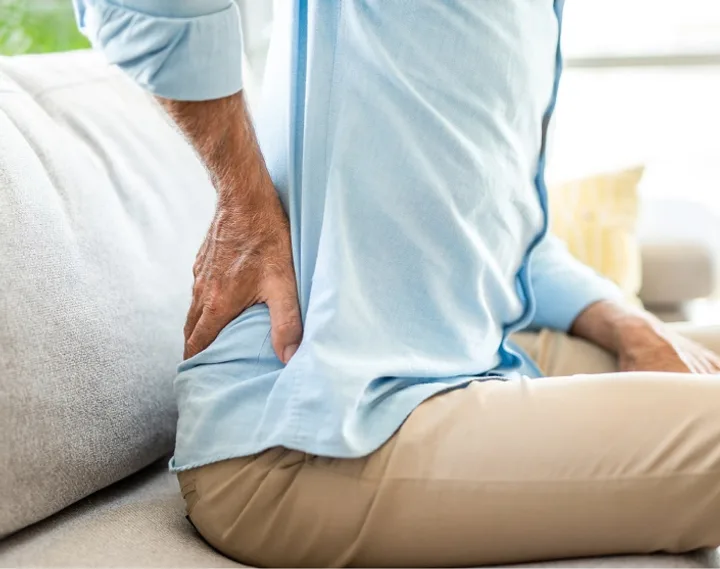
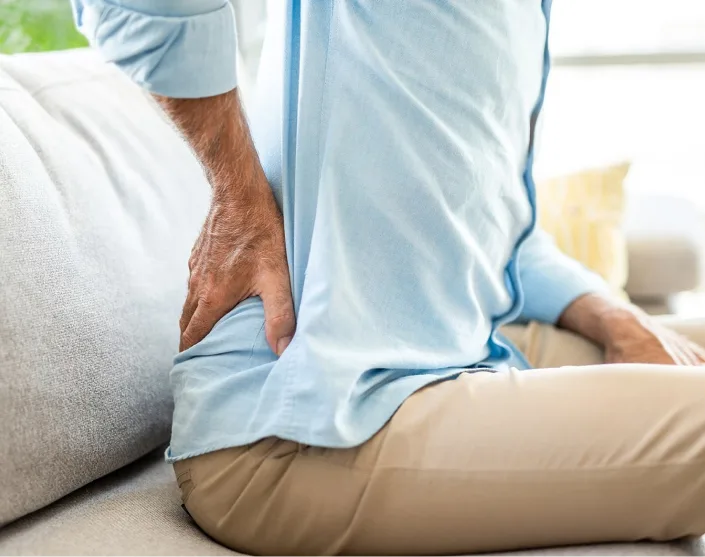
perf/seo: otimizações inspiradas no projeto dra-tatiana
Performance (impacta diretamente Core Web Vitals, sinal de ranking
do Google, especialmente em mobile):

- Converte todas as fotos (hero, perfis, blocos de condição, logo
  parceira, backgrounds) para WebP via sharp, mantendo o arquivo
  original como fallback em <picture>/image-set(): ~11,5MB -> ~975KB
  de imagens (~91% menor)
- Fundo do hero e do bloco de FAQ agora servem WebP via
  background-image: image-set() com fallback jpg
- Mapa do Google (iframe pesado) deixa de carregar automaticamente:
  nova fachada clicável ("Ver no mapa") que só cria o iframe quando
  o usuário rola até a seção (IntersectionObserver) ou clica —
  mesmo padrão usado no projeto da Dra. Tatiana

SEO:

- Adiciona <link rel="canonical"> e <meta property="og:url"> em
  ambas as páginas, agora que o site tem uma URL pública estável
  (github.io) — anteriormente omitidos por não haver domínio
  definido ainda

Testado via Chrome DevTools Protocol: currentSrc do hero confirma
que o navegador carrega o .webp; mapa cria o iframe corretamente ao
entrar na viewport; sem erros de console; sem requisições 4xx/5xx.

diff --git a/osteopatia/index.html b/osteopatia/index.html
@@ -5,9 +5,11 @@
   <meta name="viewport" content="width=device-width, initial-scale=1.0">
   <title>Fisioterapeuta Especialista em Osteopatia Pediátrica em Guarantã do Norte - MT</title>
   <meta name="description" content="Fisioterapeuta especialista em osteopatia pediátrica em Guarantã do Norte - MT. Cuidado gentil, seguro e individualizado para aliviar os desconfortos do seu bebê e apoiar cada fase do desenvolvimento.">
+  <link rel="canonical" href="https://osamuelpadua.github.io/dr-hidelvani/osteopatia/">
   <meta name="robots" content="index,follow">
   <meta property="og:locale" content="pt_BR">
   <meta property="og:type" content="website">
+  <meta property="og:url" content="https://osamuelpadua.github.io/dr-hidelvani/osteopatia/">
   <meta property="og:site_name" content="Dr. Hidelvani">
   <meta property="og:title" content="Dr. Hidelvani Nunes - Fisioterapeuta Especialista em Osteopatia Pediátrica">
   <meta property="og:description" content="Fisioterapeuta especialista em osteopatia pediátrica em Guarantã do Norte - MT. Cuidado gentil, seguro e individualizado para o desenvolvimento do seu bebê.">
@@ -133,7 +135,10 @@
             <img src="../stamp-txt-page2.svg" class="stamp-txt" alt="">
             <img src="../stamp-iso.svg" class="stamp-iso" alt="">
           </div>
-          <img src="../dr-hidelvani.png" class="doctor-img" alt="Dr. Hidelvani Nunes" loading="eager">
+          <picture>
+            <source srcset="../dr-hidelvani.webp" type="image/webp">
+            <img src="../dr-hidelvani.png" class="doctor-img" alt="Dr. Hidelvani Nunes" loading="eager">
+          </picture>
         </div>
 
       </div>
@@ -234,7 +239,10 @@
     <div class="condition-inner">
 
       <div class="condition-media">
-        <img src="../torcicolo.png" class="condition-img" alt="Fisioterapeuta avaliando a mobilidade do pescoço de um bebê">
+        <picture>
+          <source srcset="../torcicolo.webp" type="image/webp">
+          <img src="../torcicolo.png" class="condition-img" alt="Fisioterapeuta avaliando a mobilidade do pescoço de um bebê">
+        </picture>
       </div>
 
       <div class="condition-text">
@@ -254,7 +262,10 @@
     <div class="condition-inner">
 
       <div class="condition-media">
-        <img src="../assimetria-craniana.png" class="condition-img" alt="Fisioterapeuta realizando técnica craniana suave em um bebê">
+        <picture>
+          <source srcset="../assimetria-craniana.webp" type="image/webp">
+          <img src="../assimetria-craniana.png" class="condition-img" alt="Fisioterapeuta realizando técnica craniana suave em um bebê">
+        </picture>
       </div>
 
       <div class="condition-text">
@@ -274,7 +285,10 @@
     <div class="condition-inner">
 
       <div class="condition-media">
-        <img src="../colica.png" class="condition-img" alt="Fisioterapeuta realizando massagem abdominal suave em um bebê">
+        <picture>
+          <source srcset="../colica.webp" type="image/webp">
+          <img src="../colica.png" class="condition-img" alt="Fisioterapeuta realizando massagem abdominal suave em um bebê">
+        </picture>
       </div>
 
       <div class="condition-text">
@@ -294,7 +308,10 @@
     <div class="condition-inner">
 
       <div class="condition-media">
-        <img src="../amamentacao.png" class="condition-img" alt="Fisioterapeuta avaliando a mandíbula de um bebê com a mãe presente">
+        <picture>
+          <source srcset="../amamentacao.webp" type="image/webp">
+          <img src="../amamentacao.png" class="condition-img" alt="Fisioterapeuta avaliando a mandíbula de um bebê com a mãe presente">
+        </picture>
       </div>
 
       <div class="condition-text">
@@ -550,7 +567,10 @@
   <section class="profile-block">
     <div class="profile-inner">
       <div class="profile-media">
-        <img src="../profile-page2.jpg" alt="Dr. Hidelvani Nunes" class="profile-image">
+        <picture>
+          <source srcset="../profile-page2.webp" type="image/webp">
+          <img src="../profile-page2.jpg" alt="Dr. Hidelvani Nunes" class="profile-image">
+        </picture>
       </div>
 
       <div class="profile-content">
@@ -742,20 +762,44 @@
         </div>
 
         <div class="contact-brand">
-          <img src="../logo-centralfisio.png" alt="Central Fisio" class="contact-logo contact-logo--partner">
+          <picture>
+            <source srcset="../logo-centralfisio.webp" type="image/webp">
+            <img src="../logo-centralfisio.png" alt="Central Fisio" class="contact-logo contact-logo--partner">
+          </picture>
           <img src="../logo.svg" alt="Dr. Hidelvani Nunes Fisioterapeuta" class="contact-logo contact-logo--own">
         </div>
       </div>
 
-      <div class="contact-map-wrap">
-        <iframe
-          class="contact-map"
-          title="Mapa da Clínica Maranata - Dr. Hidelvani Nunes"
-          loading="lazy"
-          referrerpolicy="no-referrer-when-downgrade"
-          src="https://www.google.com/maps?q=Clinica+Maranata,+R.+Inhare,+1070,+Centro,+Guaranta+do+Norte+-+MT,+78520-000&z=17&output=embed">
-        </iframe>
+      <div class="contact-map-wrap" id="map-wrap">
+        <div class="map-facade" id="map-facade" onclick="loadMap()">
+          <div class="map-facade-btn">
+            <svg width="20" height="20" viewBox="0 0 24 24" fill="none"><path d="M12 2C8.13 2 5 5.13 5 9c0 5.25 7 13 7 13s7-7.75 7-13c0-3.87-3.13-7-7-7z" fill="currentColor"/><circle cx="12" cy="9" r="2.5" fill="white"/></svg>
+            Ver no mapa
+          </div>
+        </div>
       </div>
+      <script>
+        function loadMap() {
+          var wrap = document.getElementById('map-wrap');
+          var facade = document.getElementById('map-facade');
+          if (!wrap || !facade) return;
+          facade.style.display = 'none';
+          var iframe = document.createElement('iframe');
+          iframe.className = 'contact-map';
+          iframe.title = 'Mapa da Clínica Maranata - Dr. Hidelvani Nunes';
+          iframe.referrerPolicy = 'no-referrer-when-downgrade';
+          iframe.src = 'https://www.google.com/maps?q=Clinica+Maranata,+R.+Inhare,+1070,+Centro,+Guaranta+do+Norte+-+MT,+78520-000&z=17&output=embed';
+          iframe.style.border = '0';
+          wrap.appendChild(iframe);
+        }
+        if ('IntersectionObserver' in window) {
+          var mapObserver = new IntersectionObserver(function (entries) {
+            if (entries[0].isIntersecting) { loadMap(); mapObserver.disconnect(); }
+          }, { rootMargin: '200px' });
+          var mapWrapEl = document.getElementById('map-wrap');
+          if (mapWrapEl) mapObserver.observe(mapWrapEl);
+        }
+      </script>
     </div>
   </section>
   <!-- ======================== /CONTACT BLOCK ======================== -->

diff --git a/index.html b/index.html
@@ -5,9 +5,11 @@
   <meta name="viewport" content="width=device-width, initial-scale=1.0">
   <title>Fisioterapeuta Especialista em Coluna em Guarantã do Norte - MT | Tratamento da Coluna e da Dor</title>
   <meta name="description" content="Fisioterapeuta especialista no tratamento da coluna em Guarantã do Norte - MT. Alívio da dor, recuperação dos movimentos e tratamento focado na causa para você voltar à sua rotina com mais qualidade de vida.">
+  <link rel="canonical" href="https://osamuelpadua.github.io/dr-hidelvani/">
   <meta name="robots" content="index,follow">
   <meta property="og:locale" content="pt_BR">
   <meta property="og:type" content="website">
+  <meta property="og:url" content="https://osamuelpadua.github.io/dr-hidelvani/">
   <meta property="og:site_name" content="Dr. Hidelvani">
   <meta property="og:title" content="Dr. Hidelvani Nunes - Fisioterapeuta Especialista no Tratamento da Coluna">
   <meta property="og:description" content="Fisioterapeuta especialista no tratamento da coluna em Guarantã do Norte - MT. Alívio da dor, recuperação dos movimentos e tratamento focado na causa.">
@@ -133,7 +135,10 @@
             <img src="stamp-txt.svg" class="stamp-txt" alt="">
             <img src="stamp-iso.svg" class="stamp-iso" alt="">
           </div>
-          <img src="dr-hidelvani.png" class="doctor-img" alt="Dr. Hidelvani Nunes" loading="eager">
+          <picture>
+            <source srcset="dr-hidelvani.webp" type="image/webp">
+            <img src="dr-hidelvani.png" class="doctor-img" alt="Dr. Hidelvani Nunes" loading="eager">
+          </picture>
         </div>
 
       </div>
@@ -263,7 +268,10 @@
     <div class="condition-inner">
 
       <div class="condition-media">
-        <img src="lombar.png" class="condition-img" alt="Fisioterapeuta avaliando a região lombar de um paciente">
+        <picture>
+          <source srcset="lombar.webp" type="image/webp">
+          <img src="lombar.png" class="condition-img" alt="Fisioterapeuta avaliando a região lombar de um paciente">
+        </picture>
       </div>
 
       <div class="condition-text">
@@ -307,7 +315,10 @@
     <div class="condition-inner">
 
       <div class="condition-media">
-        <img src="cervical.png" class="condition-img" alt="Fisioterapeuta tratando a região cervical de um paciente">
+        <picture>
+          <source srcset="cervical.webp" type="image/webp">
+          <img src="cervical.png" class="condition-img" alt="Fisioterapeuta tratando a região cervical de um paciente">
+        </picture>
       </div>
 
       <div class="condition-text">
@@ -561,7 +572,10 @@
   <section class="profile-block">
     <div class="profile-inner">
       <div class="profile-media">
-        <img src="profile.jpg" alt="Dr. Hidelvani Nunes" class="profile-image">
+        <picture>
+          <source srcset="profile.webp" type="image/webp">
+          <img src="profile.jpg" alt="Dr. Hidelvani Nunes" class="profile-image">
+        </picture>
       </div>
 
       <div class="profile-content">
@@ -750,20 +764,44 @@
         </div>
 
         <div class="contact-brand">
-          <img src="logo-centralfisio.png" alt="Central Fisio" class="contact-logo contact-logo--partner">
+          <picture>
+            <source srcset="logo-centralfisio.webp" type="image/webp">
+            <img src="logo-centralfisio.png" alt="Central Fisio" class="contact-logo contact-logo--partner">
+          </picture>
           <img src="logo.svg" alt="Dr. Hidelvani Nunes Fisioterapeuta" class="contact-logo contact-logo--own">
         </div>
       </div>
 
-      <div class="contact-map-wrap">
-        <iframe
-          class="contact-map"
-          title="Mapa da Clínica Maranata - Dr. Hidelvani Nunes"
-          loading="lazy"
-          referrerpolicy="no-referrer-when-downgrade"
-          src="https://www.google.com/maps?q=Clinica+Maranata,+R.+Inhare,+1070,+Centro,+Guaranta+do+Norte+-+MT,+78520-000&z=17&output=embed">
-        </iframe>
+      <div class="contact-map-wrap" id="map-wrap">
+        <div class="map-facade" id="map-facade" onclick="loadMap()">
+          <div class="map-facade-btn">
+            <svg width="20" height="20" viewBox="0 0 24 24" fill="none"><path d="M12 2C8.13 2 5 5.13 5 9c0 5.25 7 13 7 13s7-7.75 7-13c0-3.87-3.13-7-7-7z" fill="currentColor"/><circle cx="12" cy="9" r="2.5" fill="white"/></svg>
+            Ver no mapa
+          </div>
+        </div>
       </div>
+      <script>
+        function loadMap() {
+          var wrap = document.getElementById('map-wrap');
+          var facade = document.getElementById('map-facade');
+          if (!wrap || !facade) return;
+          facade.style.display = 'none';
+          var iframe = document.createElement('iframe');
+          iframe.className = 'contact-map';
+          iframe.title = 'Mapa da Clínica Maranata - Dr. Hidelvani Nunes';
+          iframe.referrerPolicy = 'no-referrer-when-downgrade';
+          iframe.src = 'https://www.google.com/maps?q=Clinica+Maranata,+R.+Inhare,+1070,+Centro,+Guaranta+do+Norte+-+MT,+78520-000&z=17&output=embed';
+          iframe.style.border = '0';
+          wrap.appendChild(iframe);
+        }
+        if ('IntersectionObserver' in window) {
+          var mapObserver = new IntersectionObserver(function (entries) {
+            if (entries[0].isIntersecting) { loadMap(); mapObserver.disconnect(); }
+          }, { rootMargin: '200px' });
+          var mapWrapEl = document.getElementById('map-wrap');
+          if (mapWrapEl) mapObserver.observe(mapWrapEl);
+        }
+      </script>
     </div>
   </section>
   <!-- ======================== /CONTACT BLOCK ======================== -->

diff --git a/style.css b/style.css
@@ -121,6 +121,7 @@ body::-webkit-scrollbar-thumb:hover {
   position: absolute;
   inset: 0;
   background-image: url('bg-hero.jpg');
+  background-image: image-set(url('bg-hero.webp') type('image/webp'), url('bg-hero.jpg') type('image/jpeg'));
   background-size: cover;
   background-position: center;
   z-index: 0;
@@ -1681,6 +1682,7 @@ body::-webkit-scrollbar-thumb:hover {
 .faq-block {
   position: relative;
   background: url("bg-faq.jpg") center/cover no-repeat;
+  background-image: image-set(url('bg-faq.webp') type('image/webp'), url('bg-faq.jpg') type('image/jpeg'));
   padding: 104px 0 96px;
 }
 
@@ -2099,6 +2101,31 @@ body::-webkit-scrollbar-thumb:hover {
   border: 0;
   display: block;
   filter: saturate(0.88) contrast(0.94) brightness(1.02);
+}
+
+/* ===== FACHADA DO MAPA (carregamento adiado) ===== */
+.map-facade {
+  position: absolute;
+  inset: 0;
+  background: var(--gray-bg);
+  display: flex;
+  align-items: center;
+  justify-content: center;
+  cursor: pointer;
+}
+
+.map-facade-btn {
+  display: flex;
+  align-items: center;
+  gap: 8px;
+  background: var(--primary);
+  color: var(--white);
+  font-family: 'Montserrat', sans-serif;
+  font-size: 14px;
+  font-weight: 600;
+  padding: 12px 20px;
+  border-radius: 50px;
+  box-shadow: 0 4px 16px rgba(10, 79, 130, 0.3);
 }
 
 @media (min-width: 1921px) {

diff --git a/links.html b/links.html
@@ -23,7 +23,10 @@
       <!-- Header -->
       <header class="lk-header">
         <div class="lk-avatar-wrap">
-          <img src="dr-links.png" class="lk-avatar" alt="Dr. Hidelvani Nunes">
+          <picture>
+            <source srcset="dr-links.webp" type="image/webp">
+            <img src="dr-links.png" class="lk-avatar" alt="Dr. Hidelvani Nunes">
+          </picture>
         </div>
         <img src="logo.svg" class="lk-logo" alt="Dr. Hidelvani Nunes Fisioterapeuta">
       </header>
